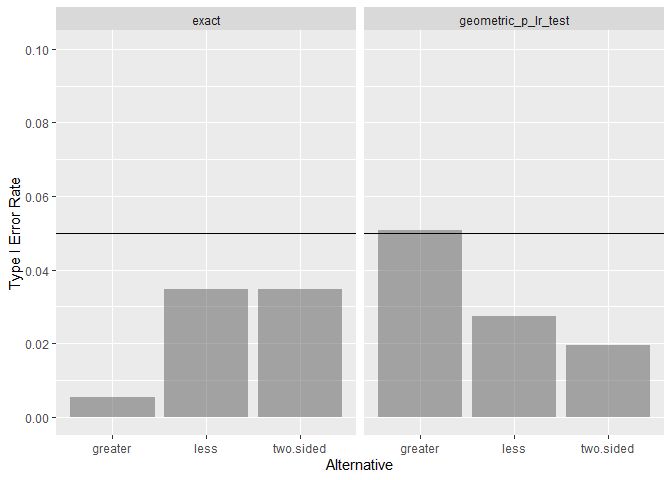
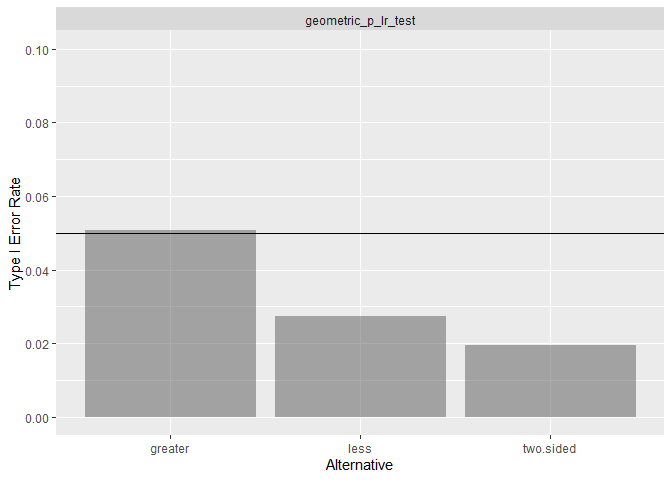
Remove exact test neg binom geometric

diff --git a/README.md b/README.md
@@ -61,10 +61,6 @@ For a distribution, the likelihood ratio test is considered bad if
 -   The test did not achieve near .05 type I error across all
     alternative hypothesis.
 
-It is possible for a likelihood test to “fail” and still be good
-approximation to the exact test. If the exact test does not meet the
-conditions, the likelihood should not either.
-
 ## Negative Binomial
 
 As long as the target number of success is large or p is not near one,
@@ -72,9 +68,6 @@ the type I error rate is .05. When the target number of successes is
 small and p is near one, the likelihood test does not have a .05 type I
 error rate. How near is too near depends on the target number of
 successes. Visually this is the bottom right corner of the graph.
-
-The exact test has similar behavior in the bottom right but is always
-conservative. The likelihood test can be either liberal or conservative.
 
 <img src="man/figures/README-negativeBonimialTypeI-1.png" width="100%" />
 
@@ -89,15 +82,13 @@ In the above, type I error rates degraded as size decreased. The
 geometric distribution is the same as the negative binomial with size
 equal to 1. This suggests the geometric test will do poorly.
 
-Over the entire range of p, both the exact test and the likelihood ratio
-have type I error rate far from the desired .05. The exact test is
-always conservative. Sometimes the likelihood test is liberal. Sometimes
-it is conservative. Overall, the likelihood test has different type I
-error rates than the exact test.
+Over the entire range of p, the likelihood ratio has type I error rate
+far from the desired .05. Sometimes the likelihood test is liberal.
+Sometimes it is conservative.
 
 <img src="man/figures/README-geometricTypeI-1.png" width="100%" />
 
-In the aggregate, type I error rates are below the desired .05. This is
-due to the discrete nature of the test statistic.
+In the aggregate, type I error rate is below the desired .05 for two
+tests. This is due to the discrete nature of the test statistic.
 
 <img src="man/figures/README-geometricTypeI2-1.png" width="100%" />
